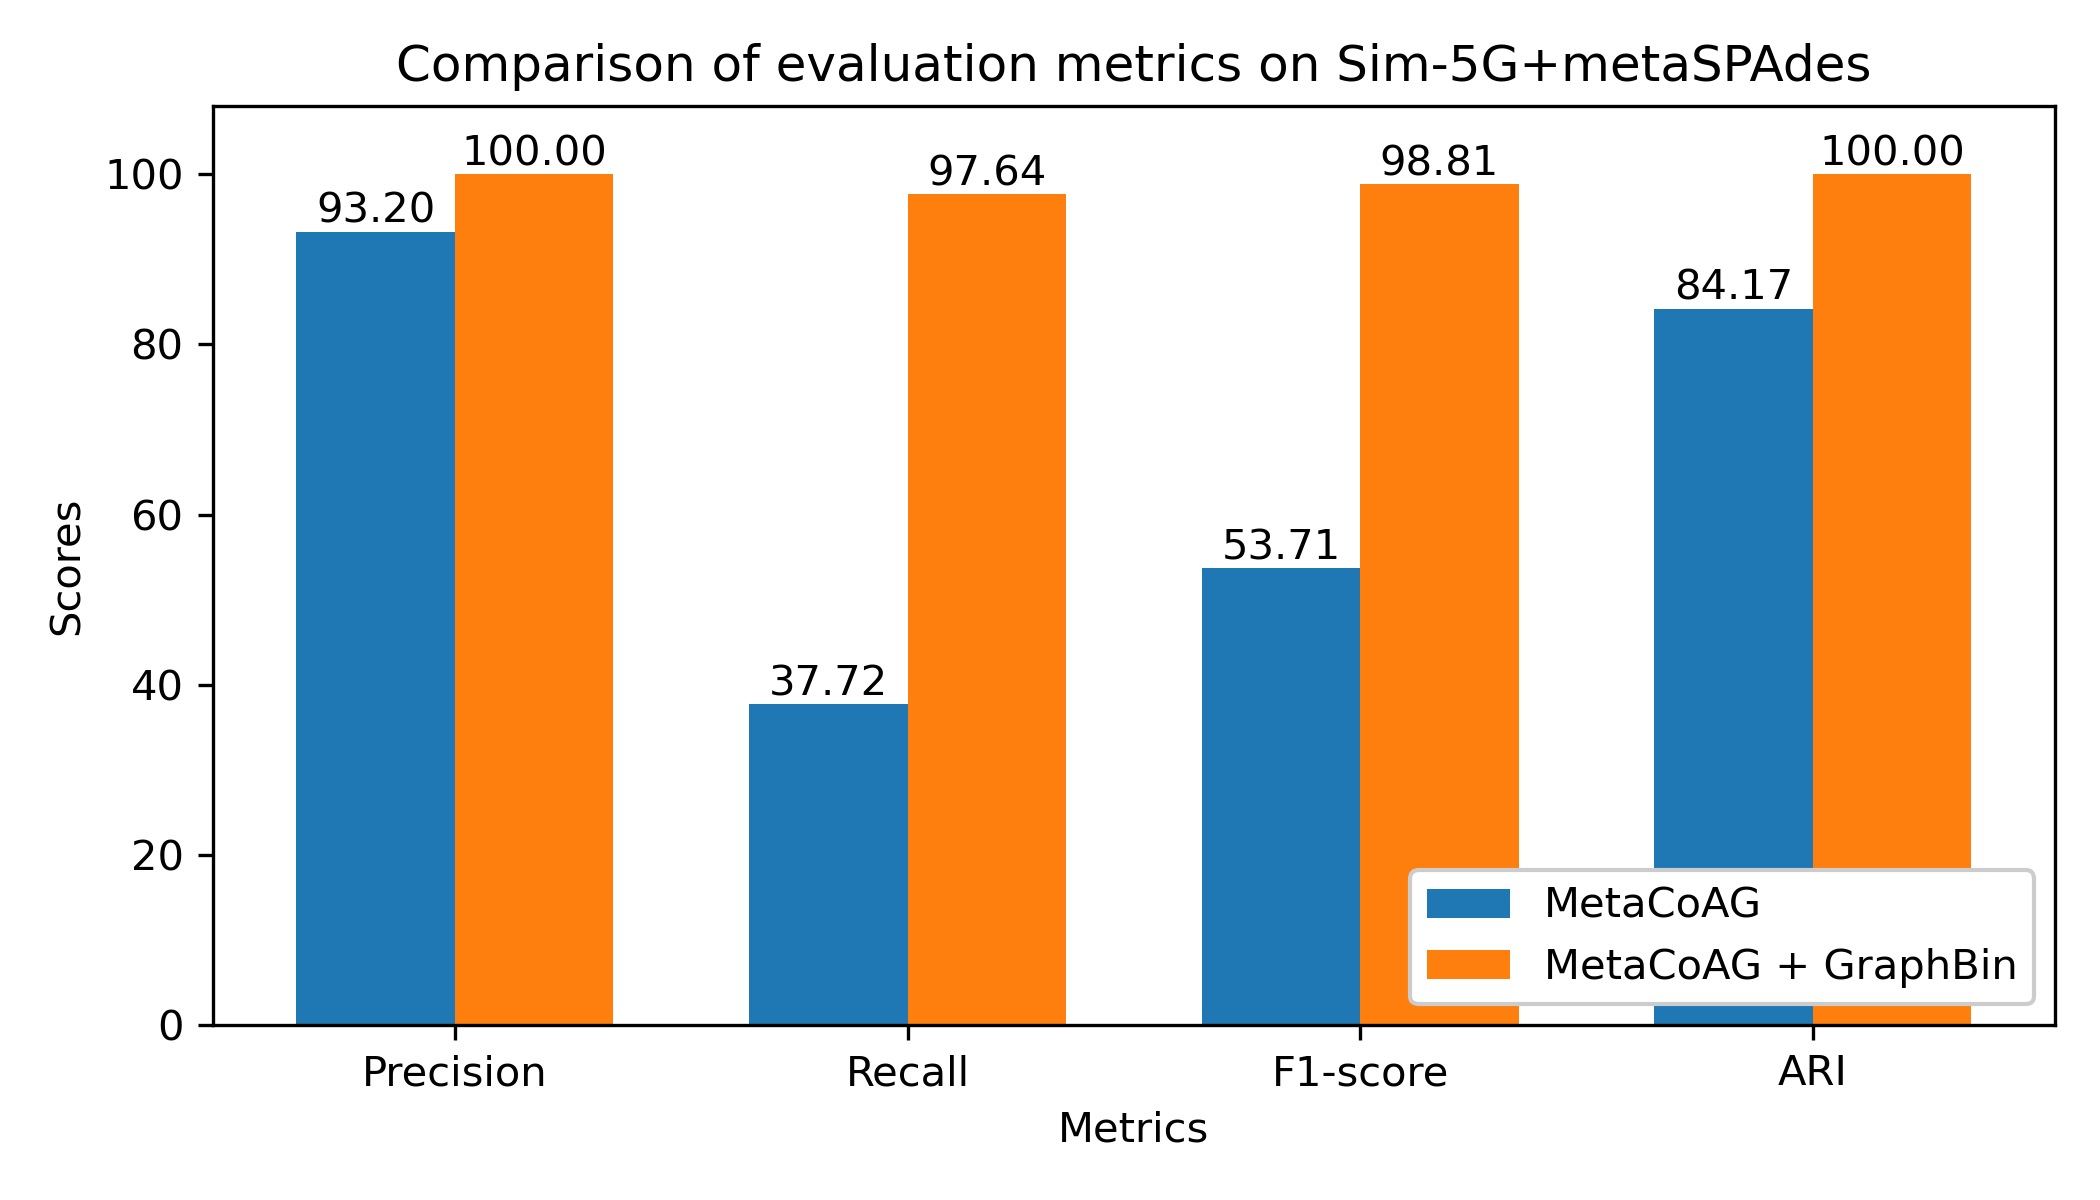
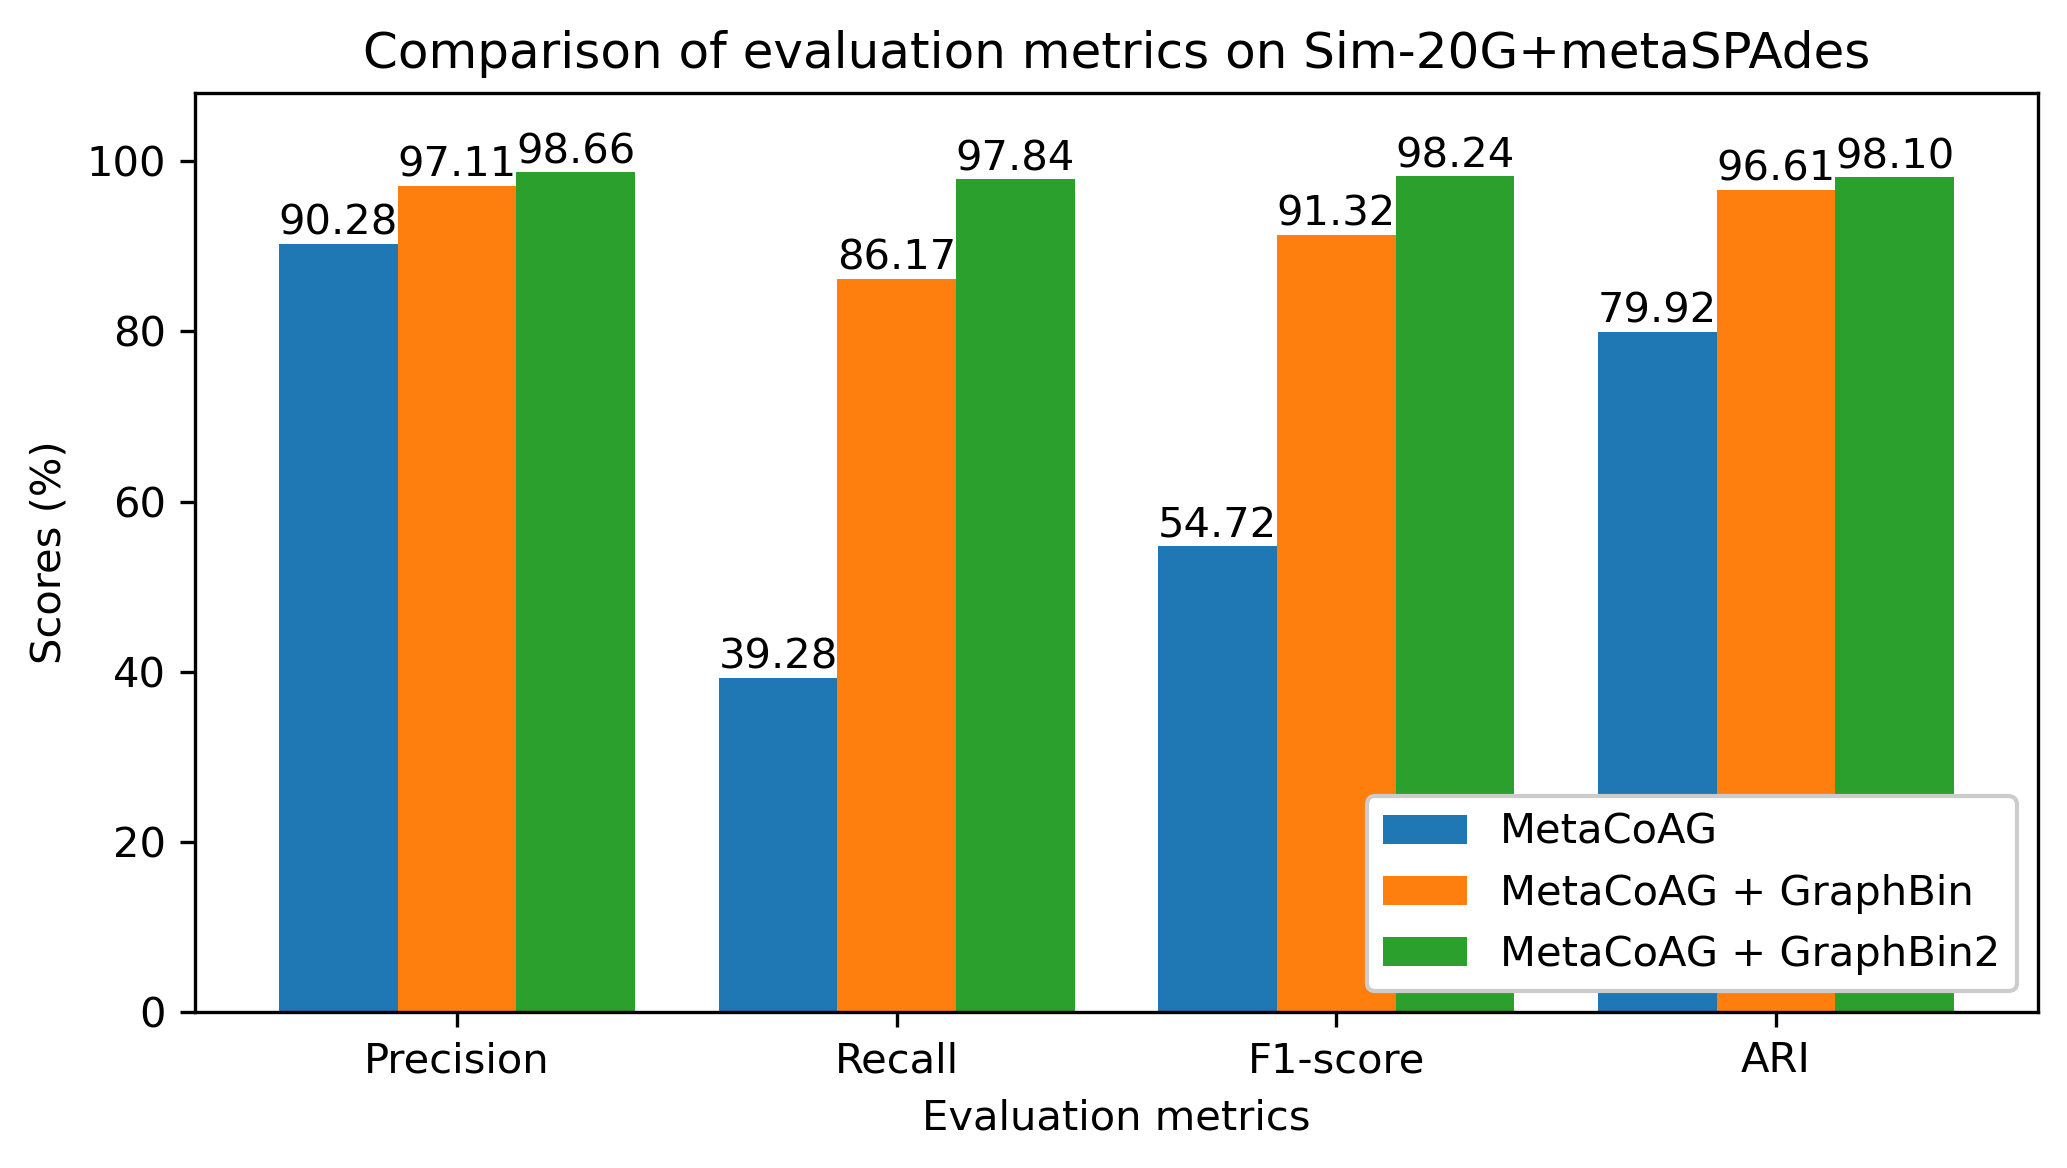
DOC: update evaluate docs

diff --git a/docs/evaluate.md b/docs/evaluate.md
@@ -1,8 +1,8 @@
 ## Evaluating binning results
 
-You can use the `evaluate` subcommand to evaluate your binning results given a ground truth.
+You can use the `evaluate` subcommand to evaluate your binning results given a ground truth. This evaluation is possible only for simulated or mock metagenomes where the ground truth genomes of contigs are known. 
 
-Run `gbintk evaluate --help` or `gbintk evaluate -h` to list the help message for evaluation.
+You can run `gbintk evaluate --help` or `gbintk evaluate -h` to list the help message for evaluation.
 
 ```shell
 Usage: gbintk evaluate [OPTIONS]
@@ -21,28 +21,40 @@ Options:
   -h, --help               Show this message and exit.
 ```
 
+### Evaluation Metrics
+
+GraphBin-Tk uses the four common metrics 1) precision, 2) recall, 3) F1-score and 4) Adjusted Rand Index (ARI) that have been used in previous binning studies. These metrics are calculated as follows. The binning result is denoted as a $K \times S$ matrix with $K$ number of bins and $S$ number of ground truth taxa. In this matrix, the element $a_{ks}$ denotes the number of contigs binned to the $k^{th}$ bin and belongs to the $s^{th}$ taxa. $U$ denotes the number of unbinned contigs and $N$ denotes the total number of contigs. Following are the equations used to calculate the evaluation metrics.
+
+__Precision__ = $\frac{\sum_{k}max_s \{a_{ks}\}}{\sum_{k}\sum_{s}a_{ks}}$
+
+__Recall__ = $\frac{\sum_{s}max_k \{a_{ks}\}}{(\sum_{k}\sum_{s}a_{ks}+U)}$
+
+__F1-score__ = $2 \times \frac{Precision\times Recall}{Precision+Recall}$
+
+__ARI__ = $\frac{\sum_{k,s}\binom{a_{ks}}{2}-t_3}{\frac{1}{2}(t_1+t_2)-t_3}$ $where\;t_1 = \sum_{k}\binom{\sum_{s}a_{ks}}{2},\;t_2 = \sum_{s}\binom{\sum_{k}a_{ks}}{2},\; and\; t_3 = \frac{t_1t_2}{\binom{N}{2}}$ 
+
+Please refer to the supplementary material of the [GraphBin publication](https://doi.org/10.1093/bioinformatics/btaa180) for further details.
+
 ### Input Format
 
-`evaluate` subcommand takes in 2 files as inputs.
+The following inputs are required to run the `evaluate` subcommand.
 
-* Binning result containing the comma separated records of `contig id,bin number` (in `.csv` format)
-* Ground truth annotations containing the comma separated records of `contig id, groud truth bin` (in `.csv` format)
+* A delimited text file containing the ground truth (e.g.`<contig_id>,<groud_truth_bin>` in `.csv` format)
+* A delimited text file containing the binning result (e.g. `<contig_id>,<bin_number>` in `.csv` format)
 
 ### Example Usage
 
 ```shell
-gbintk evaluate --binned /path/to/binning_res.csv --groundtruth /path/to/grouhdtruth.csv --output /path/to/output_folder
+gbintk evaluate --binned Sim-20G/graphbin_output.csv --groundtruth Sim-20G/ground_truth.csv --output Sim-20G/evaluation_results
 ```
 
 ### Output
 
-You will get a file named `evaluation_results.txt` that contains the confusion matrix and the evaluation metrics precition, recall, F1-score and adjusted rand index (ARI). 
-
-Please refer to the supplementary material of the [GraphBin publication](https://doi.org/10.1093/bioinformatics/btaa180) for further details on the confusion matrix and the evaluation metrics.
+You will get a file named `evaluation_results.txt` that contains the $K \times S$ matrix and the calculated evaluation metrics.
 
 ### Plotting Evaluation Results
 
-You can use the evaluation results calculated for an initial binning result and a refined binning result to plot and compare. Following is an example code using the results obtained for the `5G_metaSPAdes` test dataset.
+You can use the evaluation results calculated for an initial binning result and a refined binning result to plot and compare. Following is an example code using the results obtained for the `Sim-20G` dataset assembled using metaSPAdes.
 
 ```python
 import matplotlib.pyplot as plt
@@ -51,8 +63,9 @@ import numpy as np
 metrics = ("Precision", "Recall", "F1-score", "ARI")
 
 tools_means = {
-    'MetaCoAG': (93.204, 37.721, 53.706, 84.173),
-    'MetaCoAG + GraphBin': (100.0, 97.642, 98.807, 100.0),
+    'MetaCoAG': (90.28, 39.28, 54.72, 79.92),
+    'MetaCoAG + GraphBin': (97.11, 86.17, 91.32, 96.61),
+    'MetaCoAG + GraphBin2': (98.66, 97.84, 98.24, 98.10),
 }
 
 # Prepare the data
@@ -63,7 +76,7 @@ n_tools = len(tool_names)
 
 # X-axis values
 indices = np.arange(n_metrics)  # the label locations
-bar_width = 0.35  # the width of the bars
+bar_width = 0.27  # the width of the bars
 
 # Plotting
 fig, ax = plt.subplots(figsize=(7, 4))  # Adjust the figure size here (width, height)
@@ -78,10 +91,10 @@ for i, (tool_name, tool_scores) in enumerate(tools_means.items()):
                 ha='center', va='bottom', fontsize=10)
 
 # Add some text for labels, title and custom x-axis tick labels, etc.
-ax.set_xlabel('Metrics')
-ax.set_ylabel('Scores')
-ax.set_title('Comparison of evaluation metrics on Sim-5G+metaSPAdes')
-ax.set_xticks(indices + bar_width / 2)
+ax.set_xlabel('Evaluation metrics')
+ax.set_ylabel('Scores (%)')
+ax.set_title('Comparison of evaluation metrics on Sim-20G+metaSPAdes')
+ax.set_xticks(indices + bar_width)
 ax.set_xticklabels(metrics)
 ax.set_ylim(0, 108)
 ax.legend(loc="lower right", framealpha=1)
